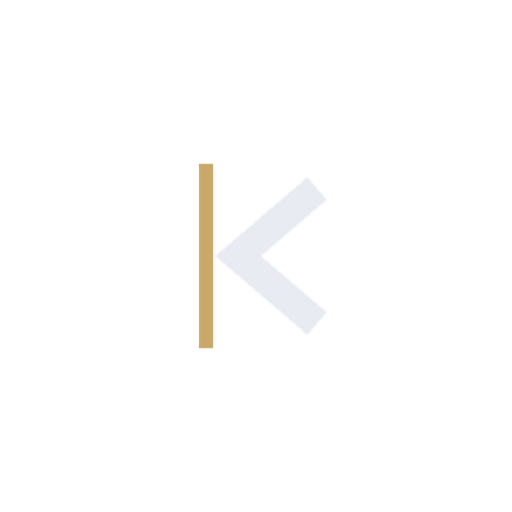
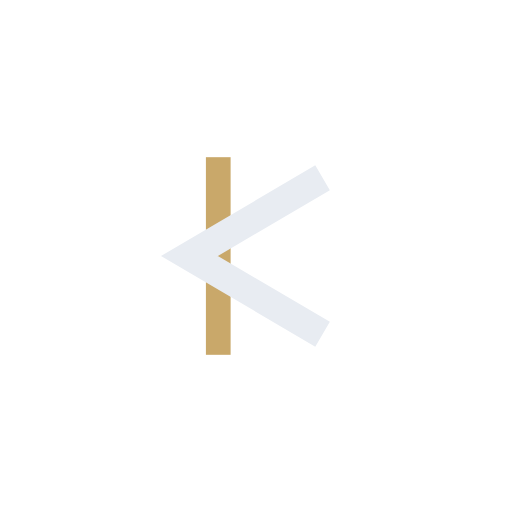
Adopt the Bindrune mark across web and mobile
The chevron's vertex now overruns the brass stave and crosses it, the way
two runes are bound into a single carved glyph. The crossing is the idea:
pulled back inside the stave it collapses into an ordinary bracket-and-bar,
which is roughly what the previous mark was.

The geometry was tuned against rasterised output at 16px rather than by
eye. Two numbers carry it. The stave at 3.6 is what keeps brass visible at
favicon size -- at 3.2 it washes out on both grounds, and the old 2.2
disappeared entirely. The vertex at 6.8 is as far left as the overrun can
go before the crossing closes into a dark knot; the version first drawn
had it at 5.2, and at 16px the arms swallowed the stave and the overrun
became a stub.

That gives one construction at every size, so the `small` variant is gone
along with kall-mark-small.svg. No caller ever passed it. Removing it also
removes the only place the identity needed two constructions to say one
thing.

Raster assets are regenerated from the same SVG source, each matching the
inset and ground its predecessor measured at -- checked rather than
assumed, which caught the mobile icon coming out as a squircle with
transparent corners when the original was an opaque square. iOS applies
its own rounding, so those corners would have shown through.

apple-touch-icon is now opaque and unrounded, which is what iOS wants; the
previous one carried its own rounding and transparency.

Verified: tsc and next build clean, and the mark screenshotted in the
[…]

Changed region(s): [[0.375, 0.2812, 0.4688, 0.7188]]

diff --git a/apps/web/app/components/KallMark.tsx b/apps/web/app/components/KallMark.tsx
@@ -1,20 +1,24 @@
 /**
- * The Kall "Stave" mark: a bold chevron crossed by a hairline brass stave that
- * overruns it top and bottom -- the vertical line a runestone inscription is
- * carved along.
+ * The Kall "Bindrune" mark: a heavy chevron whose vertex overruns the brass
+ * stave and crosses it, the way two runes are bound into a single carved
+ * glyph. The crossing is the idea -- pull the vertex back inside the stave and
+ * it collapses into an ordinary bracket-and-bar.
  *
  * Inlined rather than an <img> so the chevron inherits currentColor and tracks
- * the surrounding text. Butt caps and mitre joins are load-bearing: rounding
- * either breaks the carved construction the whole identity is built on.
+ * the surrounding text.
  *
- * Below 24px use `small`, which thickens both strokes -- the hairline stave
- * disappears entirely at favicon sizes otherwise.
+ * One construction at every size, deliberately. The previous mark needed a
+ * second, thickened variant below 24px because its 2.2px stave fell under a
+ * device pixel and vanished; the geometry here was tuned against rasterised
+ * output at 16px until a single set of weights held on both grounds. Two
+ * numbers carry that and should not be nudged casually: the stave at 3.6 is
+ * what keeps brass visible at favicon size, and the vertex at 6.8 is as far
+ * left as the overrun can go before the crossing closes into a dark knot.
+ *
+ * Butt caps and mitre joins are load-bearing: rounding either breaks the
+ * carved construction the identity is built on.
  */
-export default function KallMark({ size = 26, small = false }: { size?: number; small?: boolean }) {
-  const stave = small ? { x: 6.6, width: 3 } : { x: 7.1, width: 2.2 };
-  const chevron = small ? 'M25.6 5.4 L13.6 16 L25.6 26.6' : 'M25.6 5.4 L13.2 16 L25.6 26.6';
-  const strokeWidth = small ? 5.4 : 4.8;
-
+export default function KallMark({ size = 26 }: { size?: number }) {
   return (
     <svg
       width={size}
@@ -24,12 +28,12 @@ export default function KallMark({ size = 26, small = false }: { size?: number; 
       focusable="false"
       style={{ flexShrink: 0 }}
     >
-      <rect x={stave.x} y="1.6" width={stave.width} height="28.8" fill="var(--accent)" />
+      <rect x="9.2" y="1.6" width="3.6" height="28.8" fill="var(--accent)" />
       <path
-        d={chevron}
+        d="M26.2 4.6 L6.8 16 L26.2 27.4"
         fill="none"
         stroke="currentColor"
-        strokeWidth={strokeWidth}
+        strokeWidth="4.2"
         strokeLinecap="butt"
         strokeLinejoin="miter"
       />
